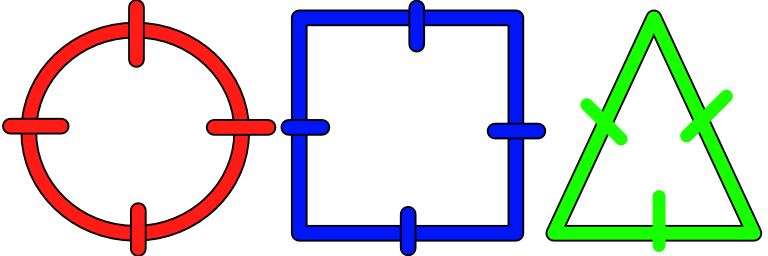
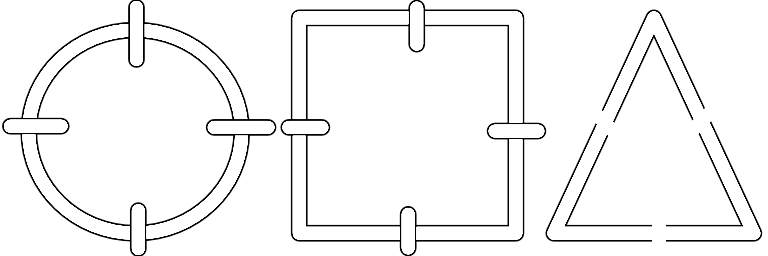
UI Update

Changed region(s): [[0.0, 0.0, 1.0, 1.0]]

diff --git a/Assets/Code/Scripts/UI/UIRevolverIndicator.cs b/Assets/Code/Scripts/UI/UIRevolverIndicator.cs
@@ -150,6 +150,7 @@ public class UIRevolverIndicator : MonoBehaviour
 
         bulletSprites[trapdoorChamber].sprite = ctx.bulletType.bulletSprite;
         bulletSprites[trapdoorChamber].enabled = true;
+        bulletSprites[trapdoorChamber].color = ctx.bulletType.bulletColor;
         bulletSprites[trapdoorChamber].transform.parent.GetComponent<MeshRenderer>().enabled = true;
 
         if (TEMP_ReloadTesting.Instance.manualRotate)